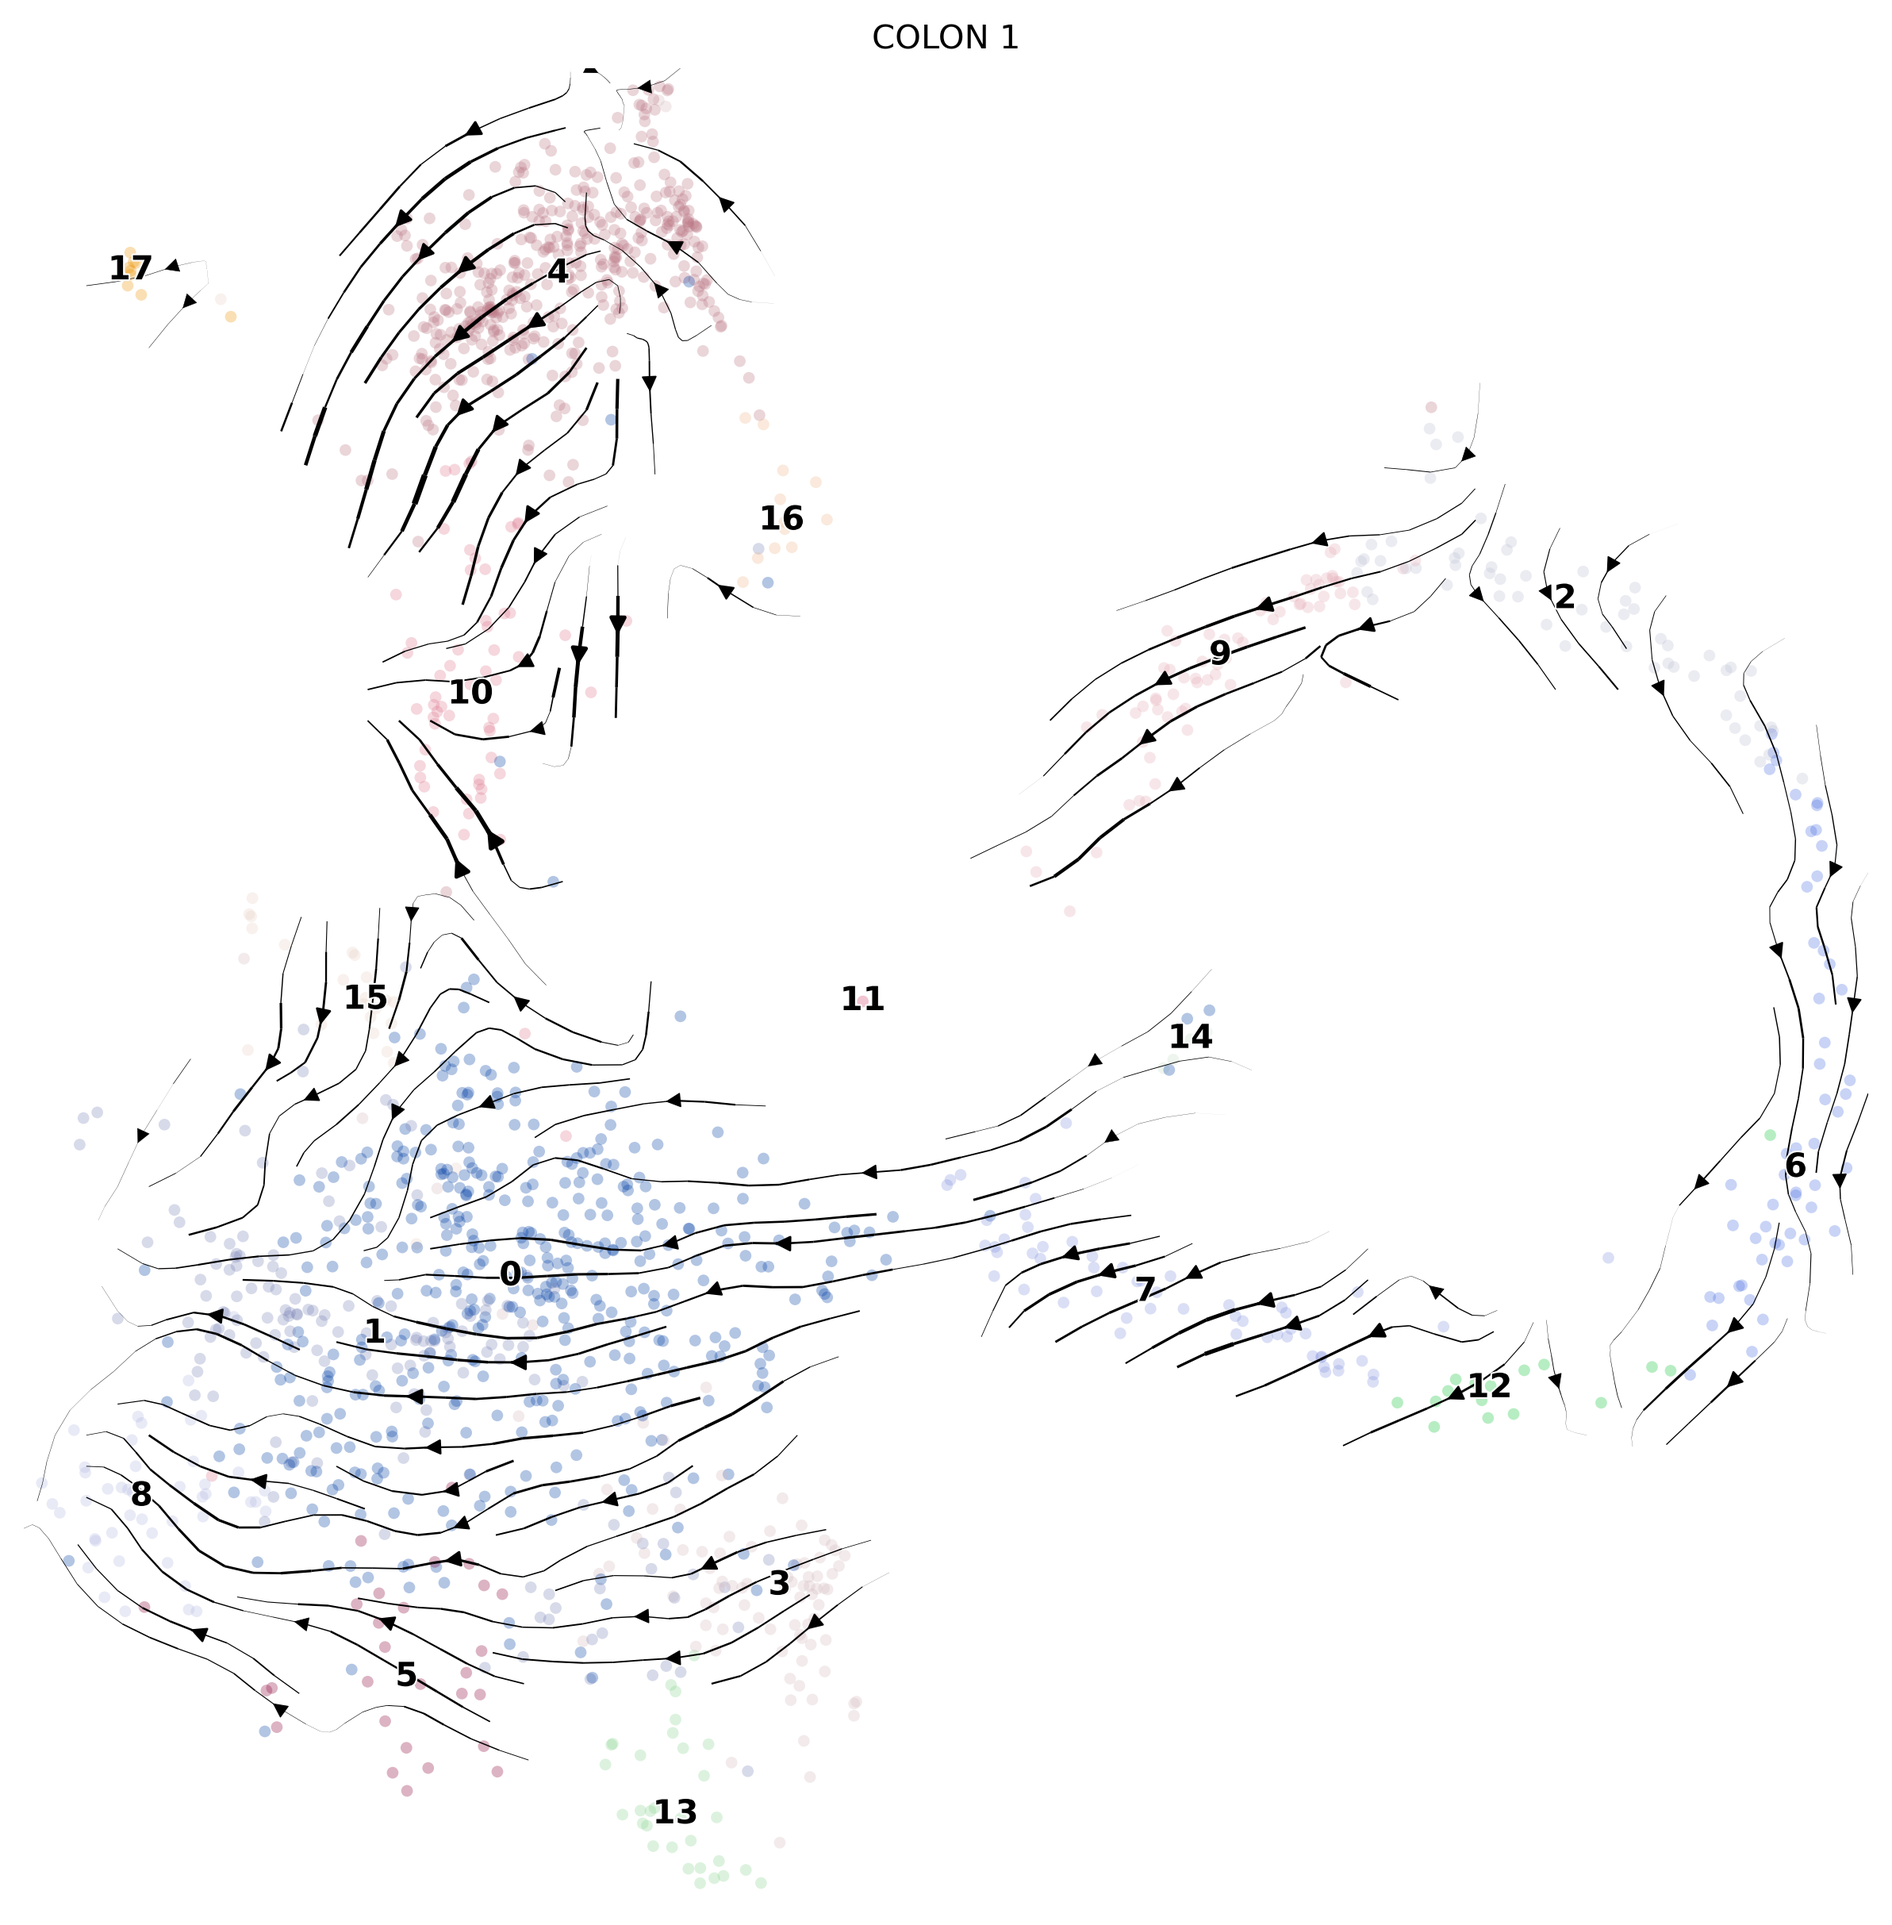
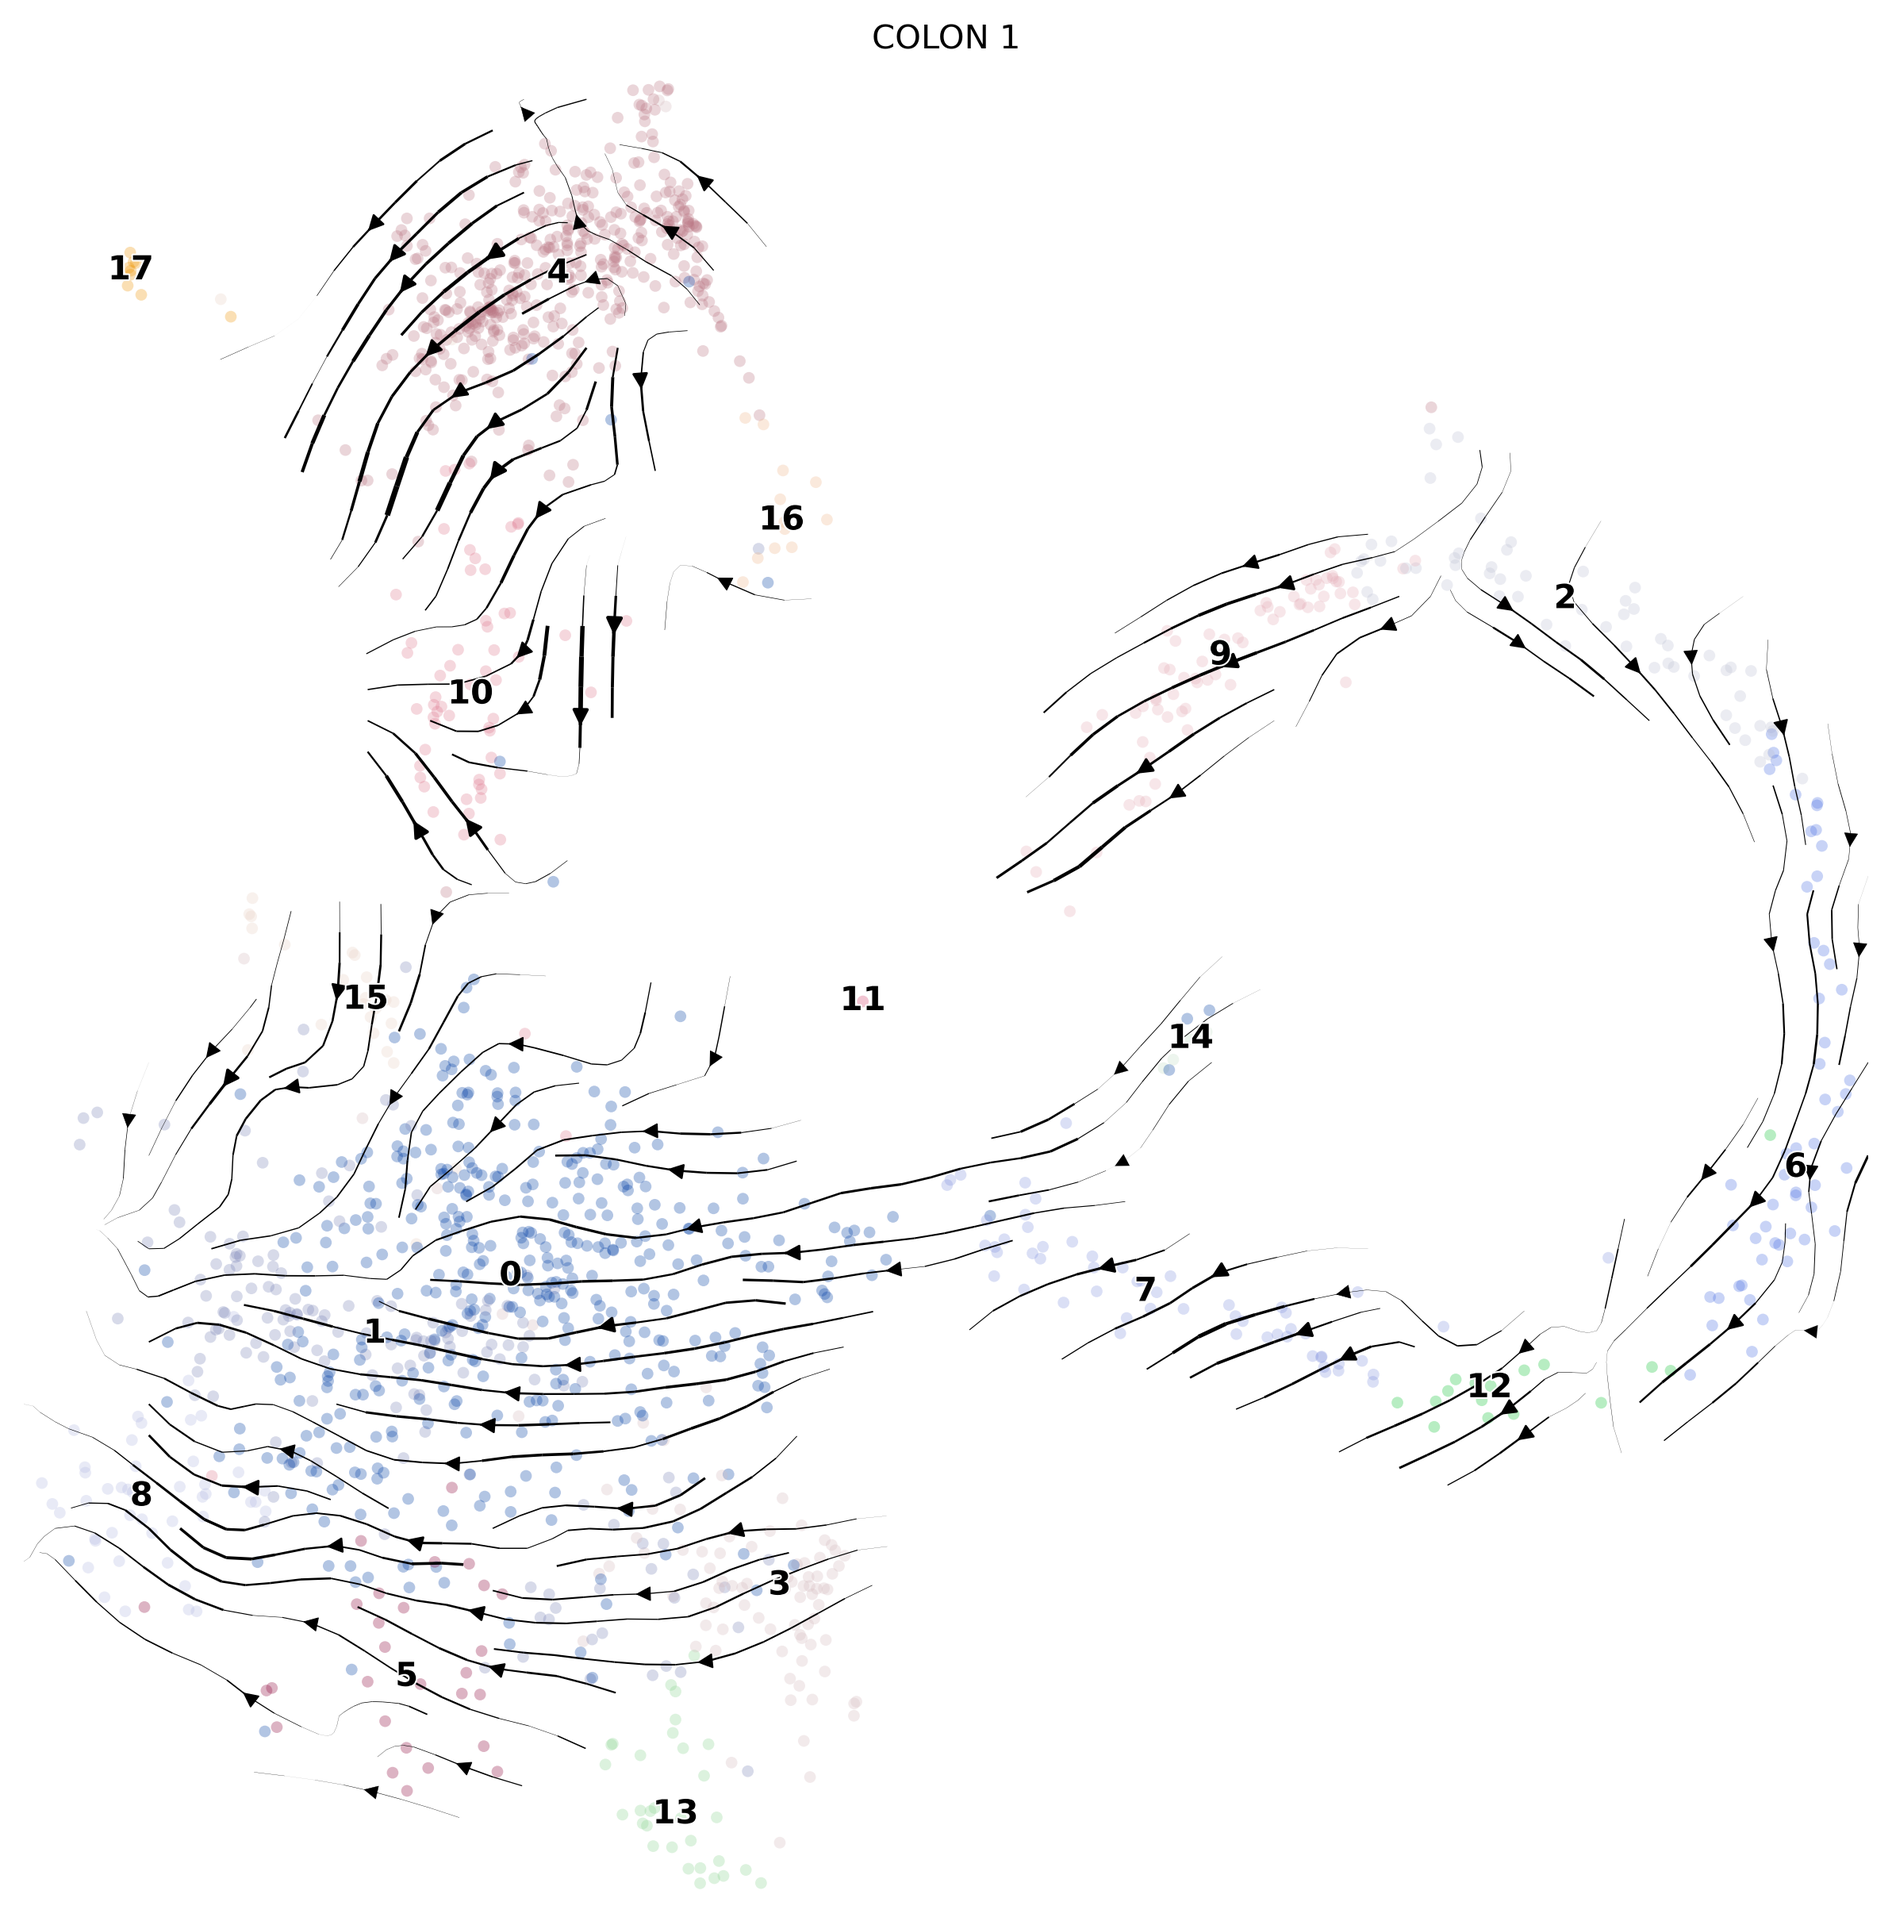
switching back to top 3000 genes

diff --git a/scripts/paga.py b/scripts/paga.py
@@ -42,7 +42,7 @@ samples = {
   'HT29_EV' : 'results/py_objects/HT29_EV_seurat.h5ad',
   'HT29_LSD1_KD' : 'results/py_objects/HT29_LSD1_KD_seurat.h5ad',
   'H508_EV' : 'results/py_objects/H508_EV_seurat.h5ad',
-  'H508_LSD_KD' : 'results/py_objects/HT29_EV_seurat.h5ad'
+  'H508_LSD1_KD' : 'results/py_objects/H508_LSD1_KD_seurat.h5ad'
 }
 
 samples = {x:scv.read(y) for x,y in samples.items()}
@@ -55,7 +55,7 @@ for key in samples.keys():
 ## Preprocess the data.
 
 for key in samples.keys():
-	scv.pp.filter_and_normalize(samples[key], min_shared_counts=20, n_top_genes=2000)
+	scv.pp.filter_and_normalize(samples[key], min_shared_counts=20, n_top_genes=3000)
 	scv.pp.moments(samples[key], n_pcs=30, n_neighbors=30)
 
 ## Calculate RNA velocities.
